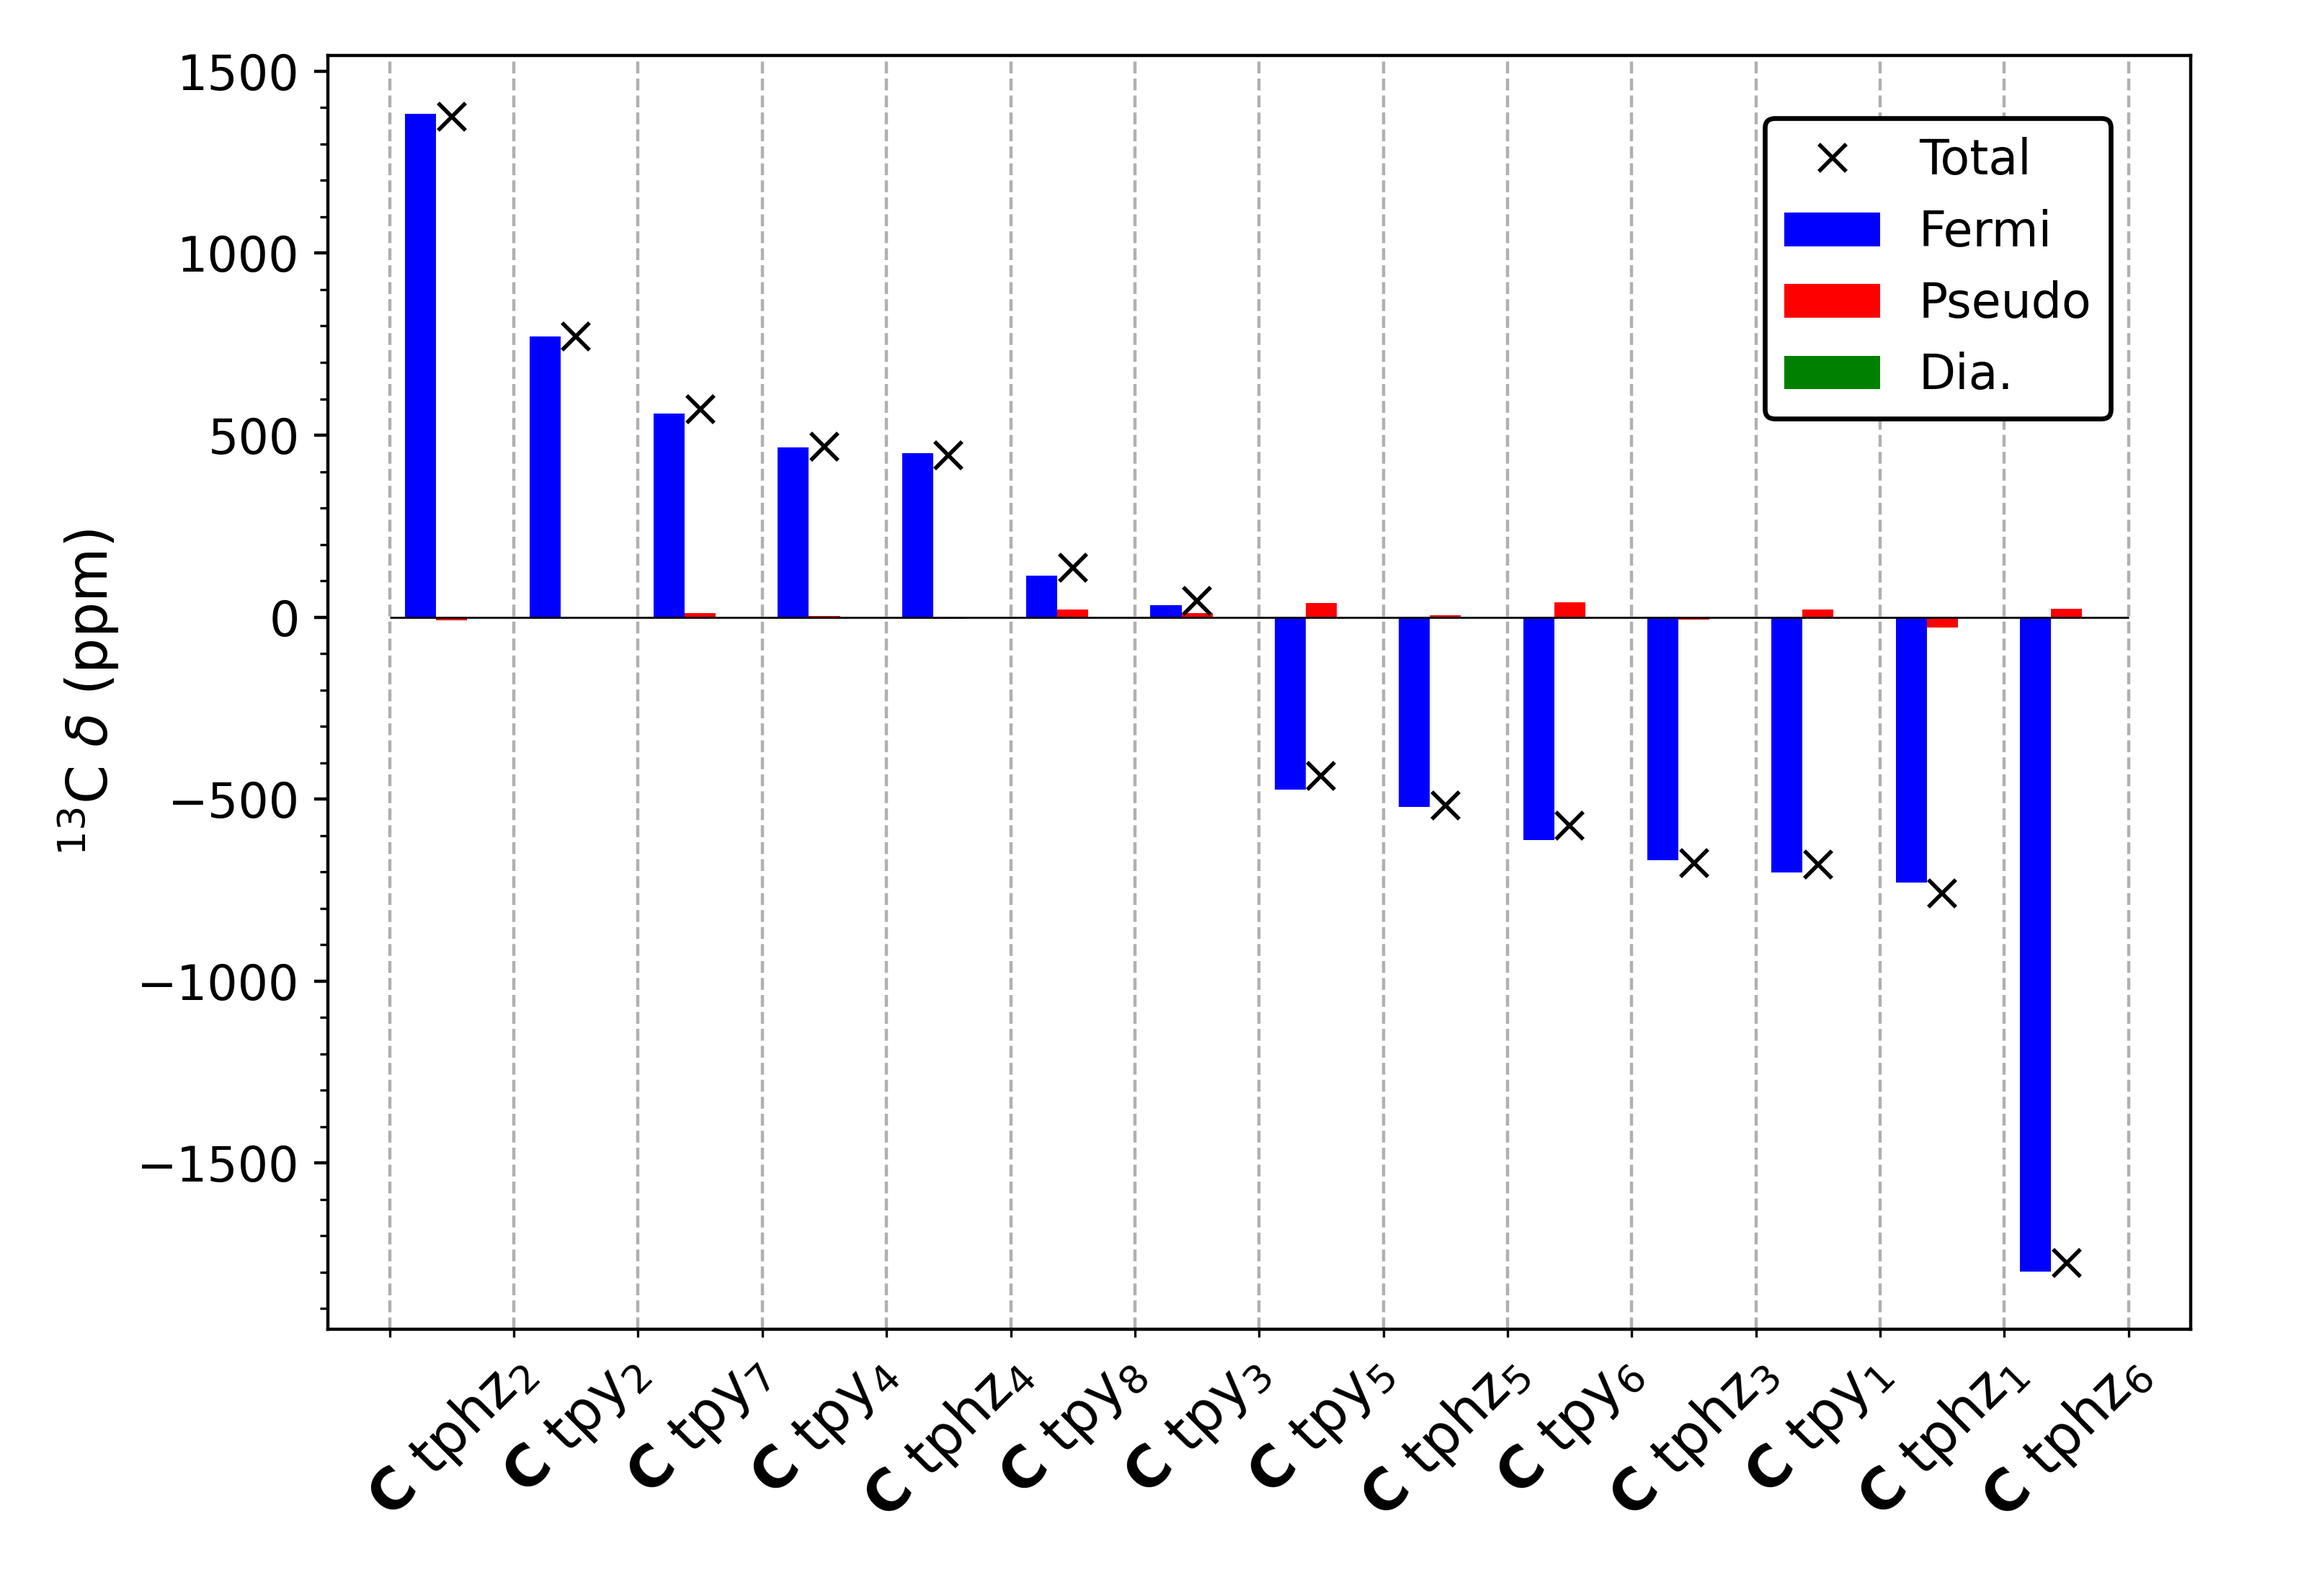
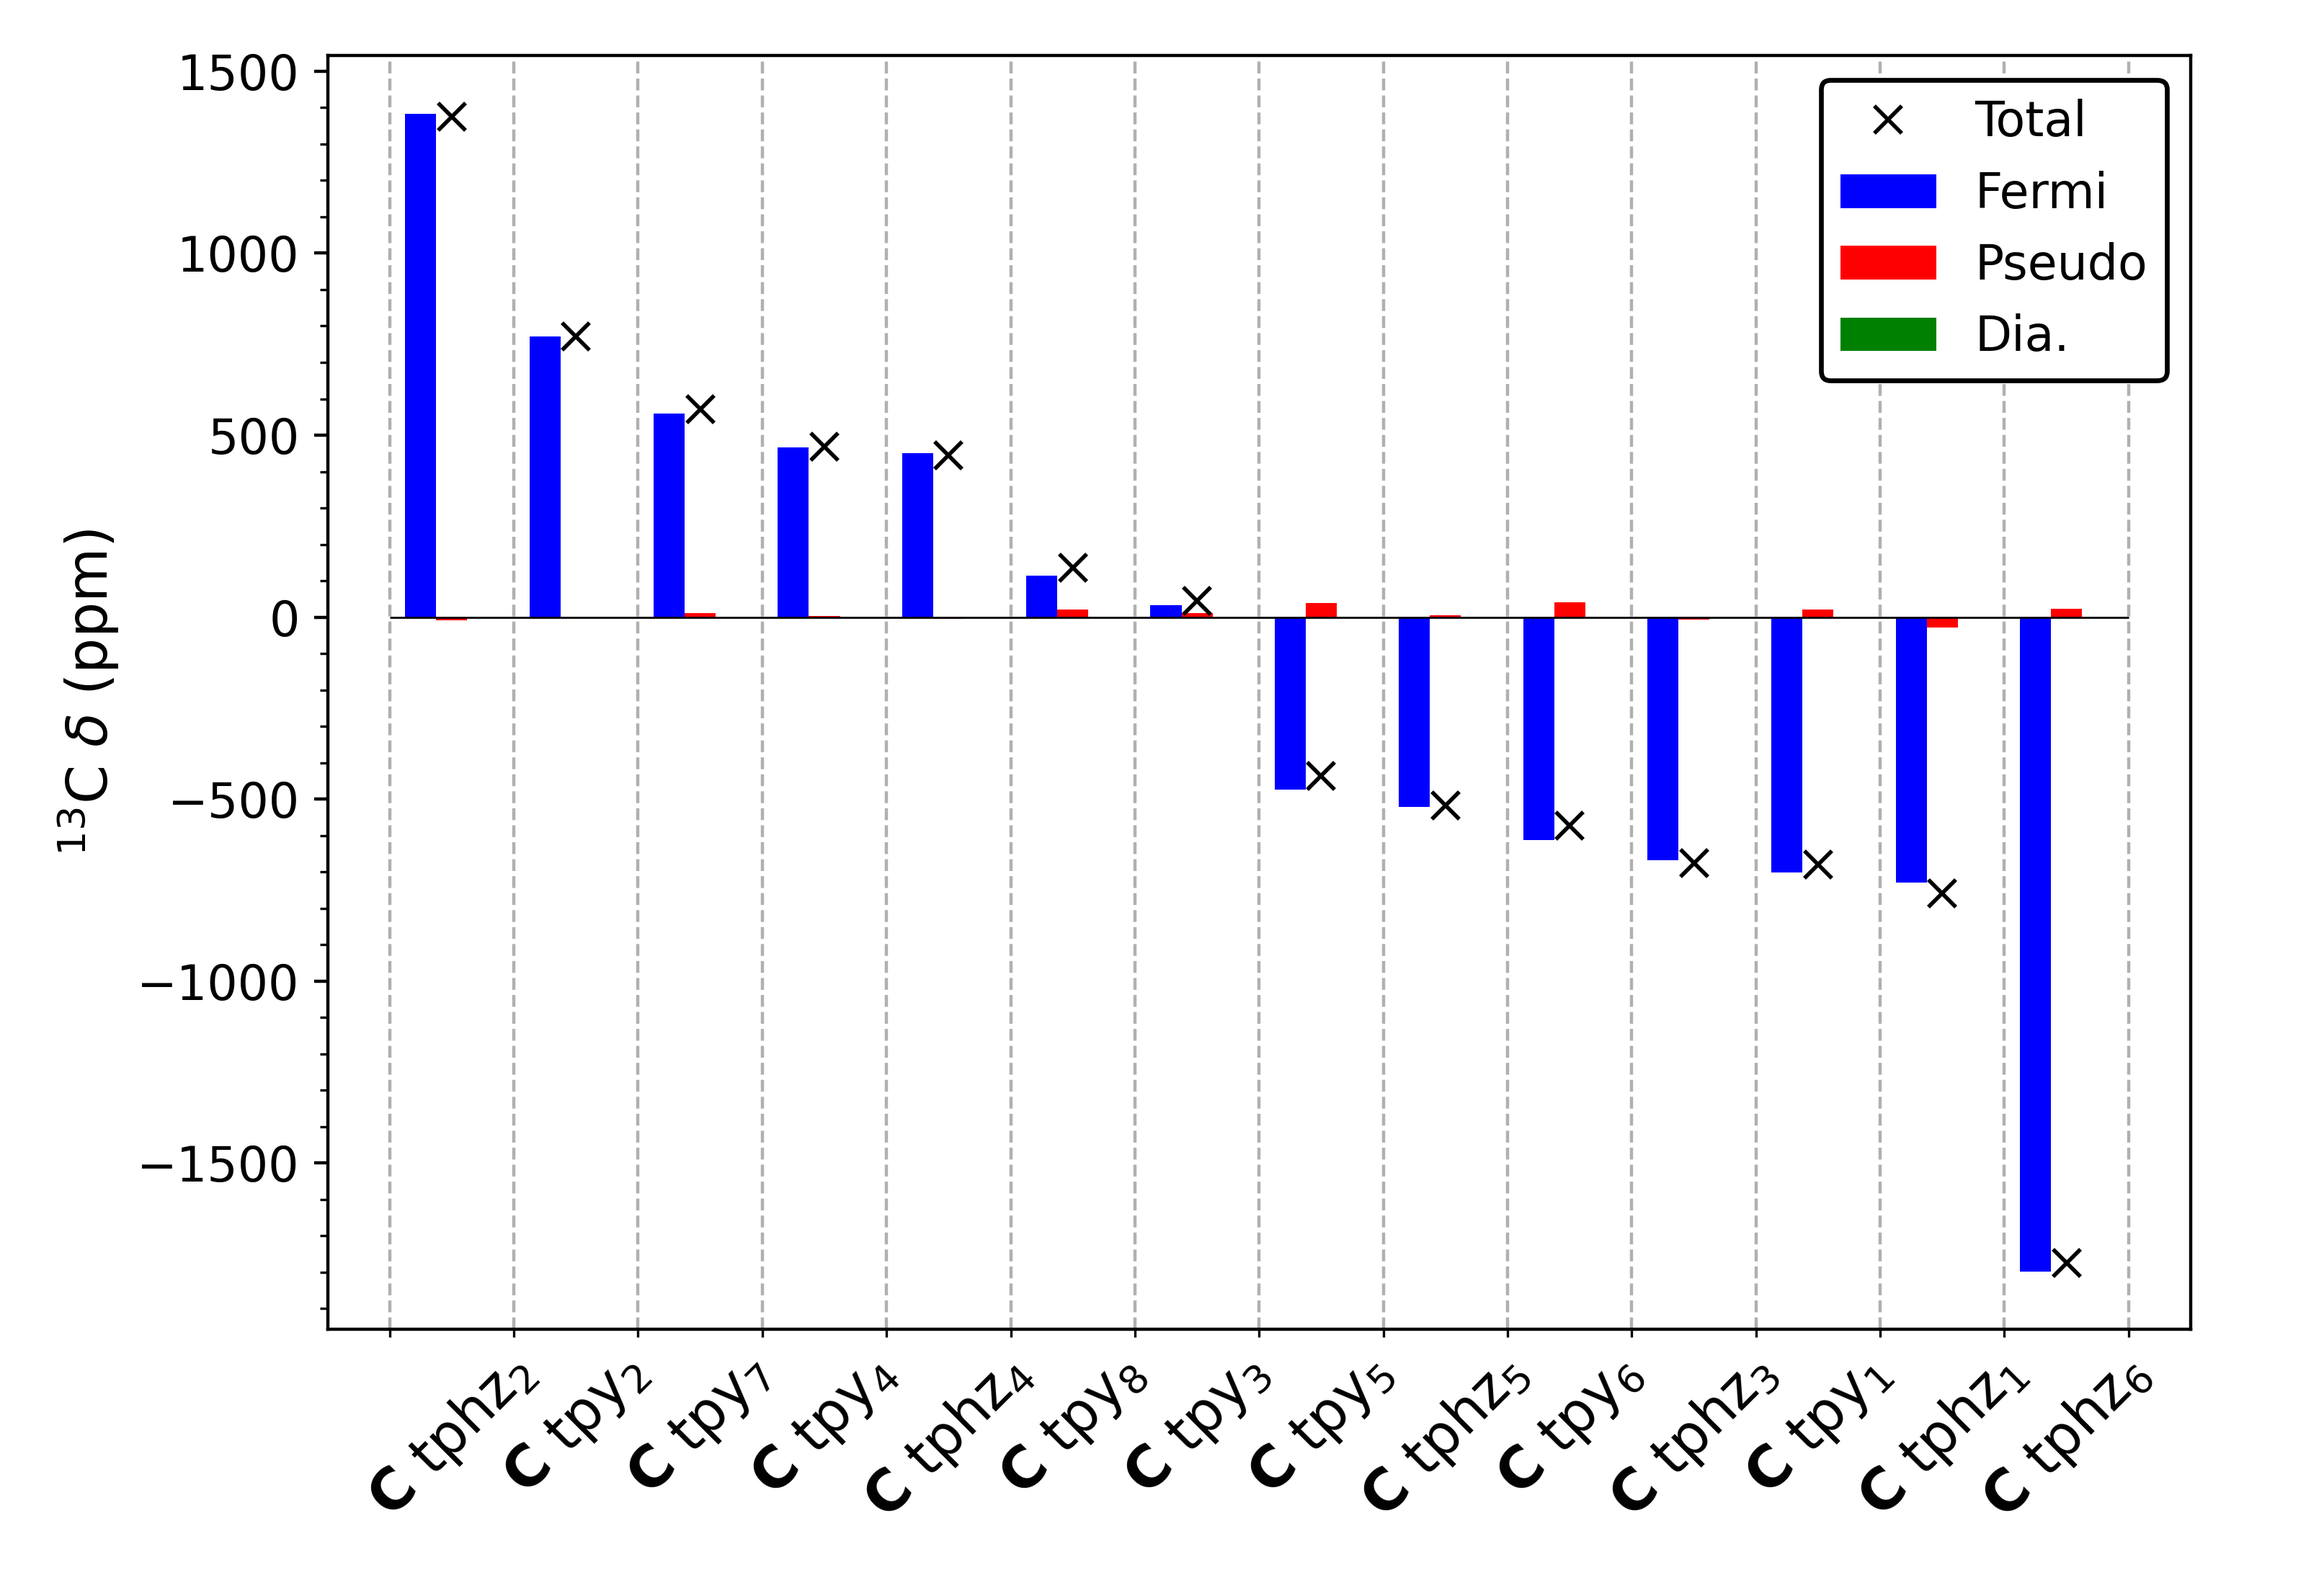
fix: fixed the orientation of the legends to the best possible

Changed region(s): [[0.75, 0.0309, 0.9375, 0.2782]]

diff --git a/simple_pnmr/visualise.py b/simple_pnmr/visualise.py
@@ -898,8 +898,7 @@ def plot_shift_spread(molecule: main.Molecule,
     legend = ax.legend(
         legend_markers,
         legend_labels,
-        loc='upper right',
-        bbox_to_anchor=(0.97, 0.97),   # Place the legend inside the plot (top right corner)
+        loc='best',
         frameon=True,                  # Enable the legend border
         fancybox=True,                 # Rounded corners for the legend box (optional)
         framealpha=1.0,                # Fully opaque background
@@ -1134,8 +1133,7 @@ def plot_shift_contrib(molecule: main.Molecule,
     ax.xaxis.set_tick_params('major', length=0)
 
     legend = ax.legend(
-        loc='upper right',
-        bbox_to_anchor=(0.97, 0.97),  # Place the legend inside the plot (top right corner)
+        loc='best',
         frameon=True,                 # Enable the legend border
         fancybox=True,                # Rounded corners for the legend box (optional)
         framealpha=1.0,               # Set legend background opacity (1.0 = fully opaque)
